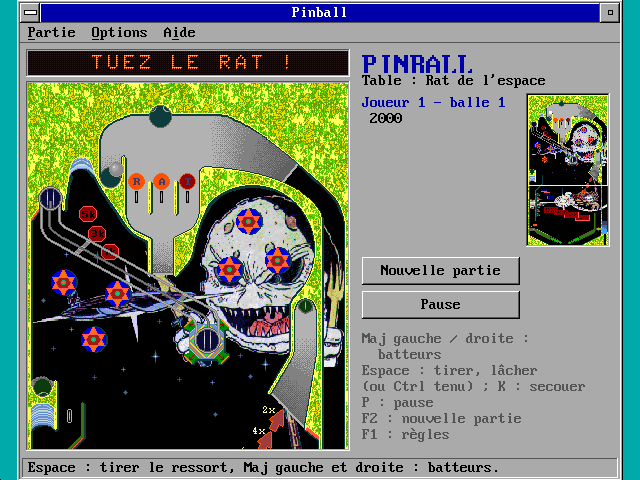
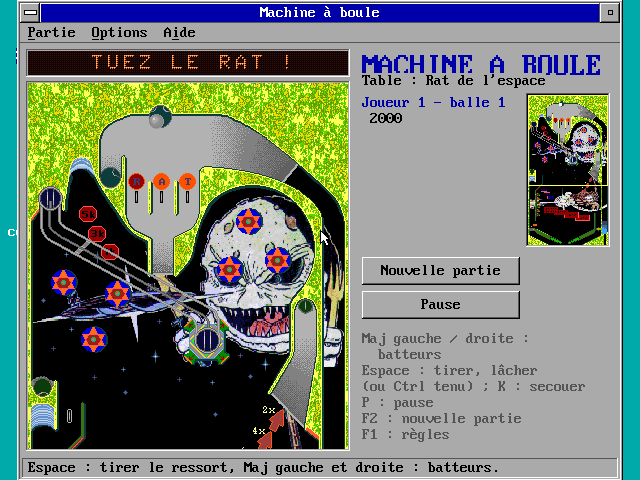
Pinball renomme Machine a boule (bureau, fenetre, menus, docs, captures)
Claude-Session: https://claude.ai/code/session_019K9zRG3gLXy99zXSC8JFsa

diff --git a/README.md b/README.md
@@ -27,7 +27,7 @@ OS2-0 démarre d'un CD-ROM ou d'un disque dur, dans QEMU, VirtualBox (y compris 
 	<li><b>Noyau 32 bits</b> (OS2KRNL) : mode protégé, pagination, tâches préemptives, sessions plein écran et fenêtrées, chargeur de programmes et de DLL 32 bits (PE et LX), programmes 16 bits d'OS/2 1.x (NE) et machine virtuelle DOS en mode V86 (Turbo Pascal 7, BGI, DPMI).</li>
 	<li><b>Systèmes de fichiers</b> : HPFS par défaut, NTFS en lecture, écriture et formatage pour partager ses fichiers avec Windows et Linux, FAT12 sur disquette, ISO 9660 sur CD-ROM, disque virtuel en mémoire ; pilotes IFS chargés par <code>IFS=</code> de CONFIG.SYS.</li>
 	<li><b>Presentation Manager et Workplace Shell</b> : fenêtres, menus, contrôles, GPI, presse-papiers, glisser-déposer, raccourcis, modèles, LaunchPad, carnets Système, Souris, Pays et Langue ; de 640 × 480 en 16 couleurs (VGA) à 1024 × 768 en 16 millions de couleurs (VESA).</li>
-	<li><b>Applications</b> : Explorateur OS2-Zero, Calculatrice, Paint (dessin bitmap), WorDium (traitement de texte : DOCX, PDF, GAT du MonsterBook, correcteur d'orthographe), Excelsior (tableur : XLC, XLS, XLSX, formules, graphiques), Outlink (courrier IMAP, POP3 et SMTP), Navigateur Web, Gestionnaire des tâches, Gestionnaire de périphériques, Audio numérique, Lecteur MP3, Notator for OS2-Zero, Essai OpenGL (OPENGL.DLL, OpenGL 1.1), Client FTP (FTP et SFTP), Client SSH (terminal xterm, SFTP, macros) et Connexion Bureau à distance (RDP vers Windows Server, TLS et NLA) du dossier Outils réseau, Pascal Developer, Astromancie (interprétation de l'astrologie) et Onirologie (interprétation des rêves) du dossier Loisirs, Astronomie, Simulateur de planète, Anatomie 3D du système circulatoire, Table des éléments et Dessin de chimie du dossier Science, Maximilien CRM, Sample Accounting, Acrodoc (PDF), News Master, PresentPoint et Bloc-notes du dossier Productivité, OS2-Zero Debugger (débogueur graphique dans l'esprit de Turbo Debugger) du dossier Developer Kit, jeux (Solitaire Klondike, Échecs, Mahjongg, Sudoku, Othello, TileMan, Hex 2048, Backgammon, Poker, Billard, Checkers, Yahtzee, Bataille navale, Puissance 4, Soko-Ban, Baccarat, Tours de Hanoï, Baby, 421, Mille-pattes, Astéroïde, Badugi, Tic-Tac-Toe, Baseball, Excavateur, Pinball, Barbu, Casse-Brique, Bataille, Invasion de l'espace, FreeCell, Commandement des missiles, L25, Bubble Shooter, BlackJack, Blox, Golf, Grenouille, Bonhomme pendu, Lights), fenêtres OS/2 et DOS, les commandes d'OS/2 (CMD.EXE, CHKDSK, FORMAT, XCOPY, MODE, TREE…).</li>
+	<li><b>Applications</b> : Explorateur OS2-Zero, Calculatrice, Paint (dessin bitmap), WorDium (traitement de texte : DOCX, PDF, GAT du MonsterBook, correcteur d'orthographe), Excelsior (tableur : XLC, XLS, XLSX, formules, graphiques), Outlink (courrier IMAP, POP3 et SMTP), Navigateur Web, Gestionnaire des tâches, Gestionnaire de périphériques, Audio numérique, Lecteur MP3, Notator for OS2-Zero, Essai OpenGL (OPENGL.DLL, OpenGL 1.1), Client FTP (FTP et SFTP), Client SSH (terminal xterm, SFTP, macros) et Connexion Bureau à distance (RDP vers Windows Server, TLS et NLA) du dossier Outils réseau, Pascal Developer, Astromancie (interprétation de l'astrologie) et Onirologie (interprétation des rêves) du dossier Loisirs, Astronomie, Simulateur de planète, Anatomie 3D du système circulatoire, Table des éléments et Dessin de chimie du dossier Science, Maximilien CRM, Sample Accounting, Acrodoc (PDF), News Master, PresentPoint et Bloc-notes du dossier Productivité, OS2-Zero Debugger (débogueur graphique dans l'esprit de Turbo Debugger) du dossier Developer Kit, jeux (Solitaire Klondike, Échecs, Mahjongg, Sudoku, Othello, TileMan, Hex 2048, Backgammon, Poker, Billard, Checkers, Yahtzee, Bataille navale, Puissance 4, Soko-Ban, Baccarat, Tours de Hanoï, Baby, 421, Mille-pattes, Astéroïde, Badugi, Tic-Tac-Toe, Baseball, Excavateur, Machine à boule, Barbu, Casse-Brique, Bataille, Invasion de l'espace, FreeCell, Commandement des missiles, L25, Bubble Shooter, BlackJack, Blox, Golf, Grenouille, Bonhomme pendu, Lights), fenêtres OS/2 et DOS, les commandes d'OS/2 (CMD.EXE, CHKDSK, FORMAT, XCOPY, MODE, TREE…).</li>
 	<li><b>Matériel</b> : disques IDE et ATAPI, lecteur de disquettes, cartes son (Sound Blaster, AC'97, AudioPCI), réseau (Intel PRO/1000, AMD PCnet) avec pile TCP/IP, DHCP, DNS et TLS ; outils invités de VirtualBox et de VMware (souris absolue, écran redimensionnable).</li>
 	<li><b>Virtualisation</b> : machines virtuelles de VirtualBox (.vbox, VHD, VDI) exécutées directement sur le processeur par <b>AMD-V</b> (SVM et tables imbriquées NPT), <b>Intel VT-x</b> (VMX, EPT, invité sans restriction) ou, à défaut, le <b>mode virtuel 8086</b> du 80386 ; MS-DOS 6.22 y démarre.</li>
 	<li><b>Installation</b> graphique dans le style de Warp 3, sur une partition HPFS ou NTFS, en six langues.</li>
@@ -244,7 +244,7 @@ Comme OS/2 Warp 3, le bureau a un dossier <b>Jeux</b> avec quarante-neuf jeux de
 	<tr><td><b>Tic-Tac-Toe</b> (TTT.EXE)</td><td>Porté du prototype <code>TTT.PAS</code> du dépôt 7iles (mode texte, contre l'ordinateur) : grille de 3 × 3 en relief, X verts en traits épais, O rouges en anneaux, ligne gagnante barrée, panneau des victoires, défaites et nulles. Trois niveaux (menu Options) : Facile, Moyen (la stratégie du prototype : gagner, bloquer, centre, coins) et Difficile (minimax, imbattable). L'ordinateur commence comme dans le prototype, ou vous (menu « Vous commencez »). Souris, touches 1 à 9 (comme le pavé numérique), flèches et Entrée, annulation (Ctrl+Z), N (nouvelle partie). <code>/SEED:n</code>.</td></tr>
 	<tr><td><b>Baseball</b> (BASEBALL.EXE)</td><td>Porté du prototype <code>BASEBALL.PAS</code> du dépôt 7iles (simulation en mode texte) en graphique : terrain vu d'en haut (pelouse rayée, losange de terre, buts, monticule, clôture, estrades et foule), joueurs dessinés, lancer et vol de la balle animés, coureurs qui avancent de but en but, tableau des points par manche, voyants des balles, prises et retraits. Les règles du prototype sont gardées (frappes selon la moyenne du frappeur et la qualité du lancer, simple, double, triple ou circuit, roulant souvent retiré) ; vous jouez maintenant une des deux équipes contre l'ordinateur : au bâton, le moment du coup d'élan compte (Espace ou clic au passage de la balle), au monticule, choix de la force du lancer (+ et -). Neuf manches, pas de fin de neuvième si les Locaux mènent, victoire sur le dernier point. Bruitages joués par MDM.DLL (lancer, élan, frappe du bâton, balle dans le gant, retrait, point marqué, la foule au coup de circuit, fin de partie ; menu Options, Son). <code>/SEED:n</code> ; <code>/AUTO</code> ; <code>/NOSOUND</code>.</td></tr>
 	<tr><td><b>Excavateur</b> (EXCAVAT.EXE)</td><td>Jeu du genre des creuseurs de galeries, écrit à partir des règles d'un clone en Turbo Pascal fourni (<i>DigMan In the Rock</i>, de l'équipe dark-cloud, mode 320 × 200) : les dessins, les huit niveaux, les créatures et l'apparence sont propres à OS/2-0. Image en mémoire (GpiDrawBits, seules les parties qui changent sont recopiées) : ciel avec le chevalement de la mine, terre en quatre couches avec cailloux et racines, galeries creusées au pixel près, excavatrice jaune à foret (tournée dans les quatre directions), taupes, foreuses casquées, pierres précieuses taillées (émeraudes, rubis, saphirs, améthystes, topazes selon le niveau), sacs d'or, tas d'or, lanterne. L'excavatrice creuse où elle va et ramasse les pierres (25 points ; huit à la suite : 250 de plus). Un sac que plus rien ne soutient se balance puis tombe (pas tant que l'excavatrice est juste dessous) ; tombé de deux étages ou plus, il s'ouvre (or : 500 points) ; il écrase ce qui est dessous ; il se pousse à gauche ou à droite. Les taupes sortent du repaire et suivent les galeries ; certaines deviennent des foreuses qui creusent et mangent les pierres. Le tir part dans la galerie et se recharge. La lanterne, au repaire quand la moitié des créatures sont vaincues, les effraie : on les attrape (200 à 1600 points). Trois vies, une de plus tous les 20000 points. Flèches (une case par appui, la répétition de la touche fait continuer : Presentation Manager ne signale pas le relâchement), Espace, P, trois vitesses (menu Options). <code>/SEED:n</code> ; <code>/AUTO</code> (démonstration) ; <code>/LEVEL:n</code>.</td></tr>
-	<tr><td><b>Pinball</b> (PINBALL.EXE)</td><td>Porté du flipper fourni (Turbo Pascal, mode X 320 × 400, Sound Blaster ; jeu d'origine de Ansgar Scherp et Joachim Gelhaus, dont les sources, les tables et les sons sont réutilisables en citant les auteurs) avec ses deux tables, <b>Glace</b> et <b>Rat de l'espace</b>, leurs masques de collision, les bras des batteurs, la balle, le ressort, les polices de l'afficheur et ses quatorze sons. Tout est dans le programme (constantes Pascal, compressées en LZSS) : un seul fichier, PINBALL.EXE. La physique d'origine est reprise (la balle suit le masque au pixel près, gravité réduite sur la table du rat), ainsi que les événements des deux tables : bumpers, lumières, P-C-S et SPECIAL, trou de ver, boucles, température et feux pour la glace ; R-A-T, P-H-A-S-E-R, porte et balle verrouillée, rampe, trous de sortie, relance pour le rat ; bonus comptés en fin de balle. Fenêtre de Presentation Manager : la table défile pour suivre la balle, afficheur à points rouges au-dessus (messages traduits, tapés puis défilant comme l'original), panneau des pointages de 1 à 4 joueurs avec la table en miniature, menus Partie, Options (table, joueurs, son) et Aide. Sons joués à leur fréquence d'origine par MDM.DLL. Batteurs : Maj gauche et Maj droite tenues (état du clavier lu à chaque image, comme l'original ; flèches : un coup) ; ressort : Espace puis Espace (ou Ctrl tenu puis relâché) ; K secoue la table (cinq fois : TILT, la balle est perdue). Le lancement de la table du rat est plus fort que l'original, qui ne franchissait pas la courbe du haut. <code>/TABLE:1</code> ou <code>2</code> ; <code>/AUTO</code> (démonstration) ; <code>/NOSOUND</code> ; <code>/SEED:n</code>.</td></tr>
+	<tr><td><b>Machine à boule</b> (PINBALL.EXE)</td><td>Porté du flipper fourni (Turbo Pascal, mode X 320 × 400, Sound Blaster ; jeu d'origine de Ansgar Scherp et Joachim Gelhaus, dont les sources, les tables et les sons sont réutilisables en citant les auteurs) avec ses deux tables, <b>Glace</b> et <b>Rat de l'espace</b>, leurs masques de collision, les bras des batteurs, la balle, le ressort, les polices de l'afficheur et ses quatorze sons. Tout est dans le programme (constantes Pascal, compressées en LZSS) : un seul fichier, PINBALL.EXE. La physique d'origine est reprise (la balle suit le masque au pixel près, gravité réduite sur la table du rat), ainsi que les événements des deux tables : bumpers, lumières, P-C-S et SPECIAL, trou de ver, boucles, température et feux pour la glace ; R-A-T, P-H-A-S-E-R, porte et balle verrouillée, rampe, trous de sortie, relance pour le rat ; bonus comptés en fin de balle. Fenêtre de Presentation Manager : la table défile pour suivre la balle, afficheur à points rouges au-dessus (messages traduits, tapés puis défilant comme l'original), panneau des pointages de 1 à 4 joueurs avec la table en miniature, menus Partie, Options (table, joueurs, son) et Aide. Sons joués à leur fréquence d'origine par MDM.DLL. Batteurs : Maj gauche et Maj droite tenues (état du clavier lu à chaque image, comme l'original ; flèches : un coup) ; ressort : Espace puis Espace (ou Ctrl tenu puis relâché) ; K secoue la table (cinq fois : TILT, la balle est perdue). Le lancement de la table du rat est plus fort que l'original, qui ne franchissait pas la courbe du haut. <code>/TABLE:1</code> ou <code>2</code> ; <code>/AUTO</code> (démonstration) ; <code>/NOSOUND</code> ; <code>/SEED:n</code>.</td></tr>
 	<tr><td><b>Barbu</b> (BARBU.EXE)</td><td>Porté du prototype <code>BARBU.PAS</code> du dépôt 7iles (Turbo Pascal et BGI, cartes en rectangles) : tapis vert dans un cadre de bois, vous au sud contre Ouest, Nord et Est (l'ordinateur), cartes dessinées comme au Poker, mains adverses en éventail, levée au centre, cartes jouables surlignées, panneau de la donne, du contrat et des points. Le donneur choisit le contrat : <b>Pas de levées</b> (2 par levée), <b>Pas de cœurs</b> (2 par cœur), <b>Pas de dames</b> (6 par dame), <b>Le Barbu</b> (le roi de cœur, 16), <b>Pas la dernière levée</b> (16) ou <b>La salade</b> (tout à la fois) ; le moins de points gagne. Ajouts au prototype : la salade, le choix du contrat par le donneur, partie courte (6 donnes) ou complète (24 donnes, chaque donneur joue chaque contrat), l'as le plus fort, pas d'entame à cœur tant qu'on a autre chose, le roi de cœur à défausser au Barbu, la donne qui s'arrête quand toutes les pénalités sont tombées, un ordinateur qui passe sous la carte maîtresse et se défait de ses cartes dangereuses. Souris, ou flèches et Entrée ; 1 à 6 pour le contrat. Menus Partie, Options et Aide. <code>/AUTO</code> ; <code>/SEED:n</code>.</td></tr>
 	<tr><td><b>Casse-Brique</b> (BREAKOUT.EXE)</td><td>Porté du prototype <code>BREAKOUT.PAS</code> du dépôt 7iles (mode texte de 40 colonnes) en graphique : image en mémoire recopiée par morceaux, mur métallique riveté, six rangées de 19 briques en relief (deux rouges à 7 points, une orange et deux vertes à 4 points, une bleue à 1 point), raquette chromée, balle lumineuse, éclats des briques, panneau du pointage, des balles et du niveau, bruitages synthétisés joués par MDM.DLL. Comme le prototype : 5 balles, une balle de plus et un nouveau mur à chaque mur abattu. Ajouts : la balle rebondit selon l'endroit où elle touche la raquette et accélère au fil des coups, chaque nouveau mur commence plus bas, la souris guide la raquette, record de la séance. Options : balles illimitées, briques restantes, son. <code>/FULLBALLS</code> ; <code>/SHOWBRICKS</code> ; <code>/NOSOUND</code> ; <code>/AUTO</code> ; <code>/SEED:n</code>.</td></tr>
 	<tr><td><b>Bataille</b> (BATAILLE.EXE)</td><td>Porté du prototype <code>BATAILLE.PAS</code> du dépôt 7iles (Turbo Pascal et BGI) : tapis vert, paquets en relief, cartes dessinées retournées une à une, batailles montrées carte par carte (trois cartes cachées, une visible, et ainsi de suite), panneau du compte des cartes avec jauges, plis, batailles et parties gagnées. Celui qui ne peut pas finir une bataille perd la partie ; les cartes gagnées vont sous le paquet dans un ordre mélangé. Espace ou clic pour jouer, jeu automatique en trois vitesses. <code>/AUTO</code> ; <code>/BATAILLE</code> (le premier pli est une bataille) ; <code>/SEED:n</code>.</td></tr>
@@ -297,8 +297,8 @@ Comme OS/2 Warp 3, le bureau a un dossier <b>Jeux</b> avec quarante-neuf jeux de
 <img width="640" height="480" alt="OS/2-0 : Baseball (un double)" src="IMAGE/BASEBALL.png" />
 <img width="640" height="480" alt="OS/2-0 : Excavateur, niveau 2 (rubis)" src="IMAGE/EXCAVAT.png" />
 <img width="640" height="480" alt="OS/2-0 : Excavateur, la lanterne effraie les taupes" src="IMAGE/EXCAVAT_LANTERNE.png" />
-<img width="640" height="480" alt="OS/2-0 : Pinball, table Rat de l'espace" src="IMAGE/PINBALL.png" />
-<img width="640" height="480" alt="OS/2-0 : Pinball, table Glace" src="IMAGE/PINBALL_GLACE.png" />
+<img width="640" height="480" alt="OS/2-0 : Machine à boule, table Rat de l'espace" src="IMAGE/PINBALL.png" />
+<img width="640" height="480" alt="OS/2-0 : Machine à boule, table Glace" src="IMAGE/PINBALL_GLACE.png" />
 <img width="640" height="480" alt="OS/2-0 : Barbu, contrat Pas de coeurs (cartes jouables surlignées)" src="IMAGE/BARBU.png" />
 <img width="640" height="480" alt="OS/2-0 : Casse-Brique" src="IMAGE/BREAKOUT.png" />
 <img width="640" height="480" alt="OS/2-0 : Bataille (double bataille, 18 cartes)" src="IMAGE/BATAILLE.png" />
@@ -1845,7 +1845,7 @@ Le fichier <b>INSTALL.PAS</b> est le programme OS/2 <b>INSTALL.EXE</b>, le progr
 	<tr><td>Configuration du système</td><td>Le tableau de bord de Warp 3 : pays, clavier, <b>langue</b> (nouveau, français par défaut), souris, ports série, affichage principal (VGA 640 x 480 ou un mode VESA : <code>SET PMRESOLUTION=</code>), affichage secondaire, gestion de l'alimentation, PCMCIA, CD-ROM, imprimante, multimédia, SCSI. Un clic sur l'icône (ou le titre) d'un choix ouvre la liste de ses valeurs ; les champs à flèches changent de valeur. L'assistant change aussitôt de langue (français, anglais, allemand, espagnol, italien, albanais ; le portugais, le suédois, le danois et le japonais sont affichés en anglais), le pays et le clavier suivent.</td></tr>
 	<tr><td>Partitionnement du disque dur</td><td>Comme FDISK : disques IDE (modèle, taille), partitions principales et espaces libres ; création d'une partition HPFS (07h) dont on donne la taille en Mo (alignée sur 1 Mo, après les 4 premiers Mo du disque), suppression (après confirmation), choix de la partition. La table est écrite au secteur 0 du disque.</td></tr>
 	<tr><td>Formatage</td><td><b>HPFS</b> (choix par défaut, le système de fichiers d'OS/2, par HPFS.IFS : FS_FSCTL 8000h) ou <b>NTFS</b> (par NTFS.IFS : KrnDiskCtl 11 ; les fichiers se partagent alors facilement avec Windows et Linux), avec le nom du volume ; « Ne pas formater » garde les fichiers d'une partition HPFS ou NTFS existante (réinstallation). <code>SET INSTALL_FS=NTFS</code> dans le CONFIG.SYS du CD-ROM d'installation fait de NTFS le choix initial (et le choix de l'installation facile).</td></tr>
-	<tr><td>Composants</td><td>Système de base et Presentation Manager (obligatoire), bureau et LaunchPad (sinon <code>PROTSHELL=C:\CMD.EXE</code>), utilitaires, programmes d'essai TEST*.EXE, disque virtuel de 4 Mo (les applications, dont celles des dossiers Science et Productivité, sont toujours installées), jeux (Solitaire - Klondike, Échecs, Mahjongg, Sudoku, Othello, TileMan, Hex 2048, Backgammon, Poker, Billard, Checkers, Yahtzee, Bataille navale, Puissance 4, Soko-Ban, Baccarat, Tours de Hanoï, Baby, 421, Mille-pattes, Astéroïde, Badugi, Tic-Tac-Toe, Baseball, Excavateur, Pinball, Barbu, Casse-Brique, Bataille, Invasion de l'espace, FreeCell, Commandement des missiles, L25, Bubble Shooter, BlackJack, Blox, Golf, Grenouille, Bonhomme pendu, Lights) et loisirs (Astromancie, Onirologie et son récit d'exemple REVE.TXT), multimédia (Audio numérique, Lecteur MP3 et son morceau d'exemple, Notator for OS2-Zero et ses exemples, MDM.DLL, pilotes des cartes son, sons), réseau TCP/IP (TCPIP32.DLL, E1000.DLL, PCNET.DLL, IFCONFIG, PING, HOST, WGET, Outlink) ; espace nécessaire et espace disponible.</td></tr>
+	<tr><td>Composants</td><td>Système de base et Presentation Manager (obligatoire), bureau et LaunchPad (sinon <code>PROTSHELL=C:\CMD.EXE</code>), utilitaires, programmes d'essai TEST*.EXE, disque virtuel de 4 Mo (les applications, dont celles des dossiers Science et Productivité, sont toujours installées), jeux (Solitaire - Klondike, Échecs, Mahjongg, Sudoku, Othello, TileMan, Hex 2048, Backgammon, Poker, Billard, Checkers, Yahtzee, Bataille navale, Puissance 4, Soko-Ban, Baccarat, Tours de Hanoï, Baby, 421, Mille-pattes, Astéroïde, Badugi, Tic-Tac-Toe, Baseball, Excavateur, Machine à boule, Barbu, Casse-Brique, Bataille, Invasion de l'espace, FreeCell, Commandement des missiles, L25, Bubble Shooter, BlackJack, Blox, Golf, Grenouille, Bonhomme pendu, Lights) et loisirs (Astromancie, Onirologie et son récit d'exemple REVE.TXT), multimédia (Audio numérique, Lecteur MP3 et son morceau d'exemple, Notator for OS2-Zero et ses exemples, MDM.DLL, pilotes des cartes son, sons), réseau TCP/IP (TCPIP32.DLL, E1000.DLL, PCNET.DLL, IFCONFIG, PING, HOST, WGET, Outlink) ; espace nécessaire et espace disponible.</td></tr>
 	<tr><td>Transfert des fichiers</td><td>Barre de progression aux logos OS/2, fichier courant ; copie des fichiers du CD-ROM, création de C:\DESKTOP et C:\AIDE, CONFIG.SYS du disque dur (<code>IFS=C:\HPFS.IFS /CACHE:64 /AUTOCHECK:C</code>, <code>SET LANGUAGE=</code>, <code>COUNTRY=</code>, <code>DEVINFO=KBD,...</code>, <code>SET PMRESOLUTION=</code>...), zone d'amorçage et secteur d'amorce principal.</td></tr>
 	<tr><td>Fin</td><td>Retirer le CD-ROM puis Redémarrer (les tampons des volumes sont vidés, puis remise à zéro par le contrôleur du clavier).</td></tr>
 </table>
